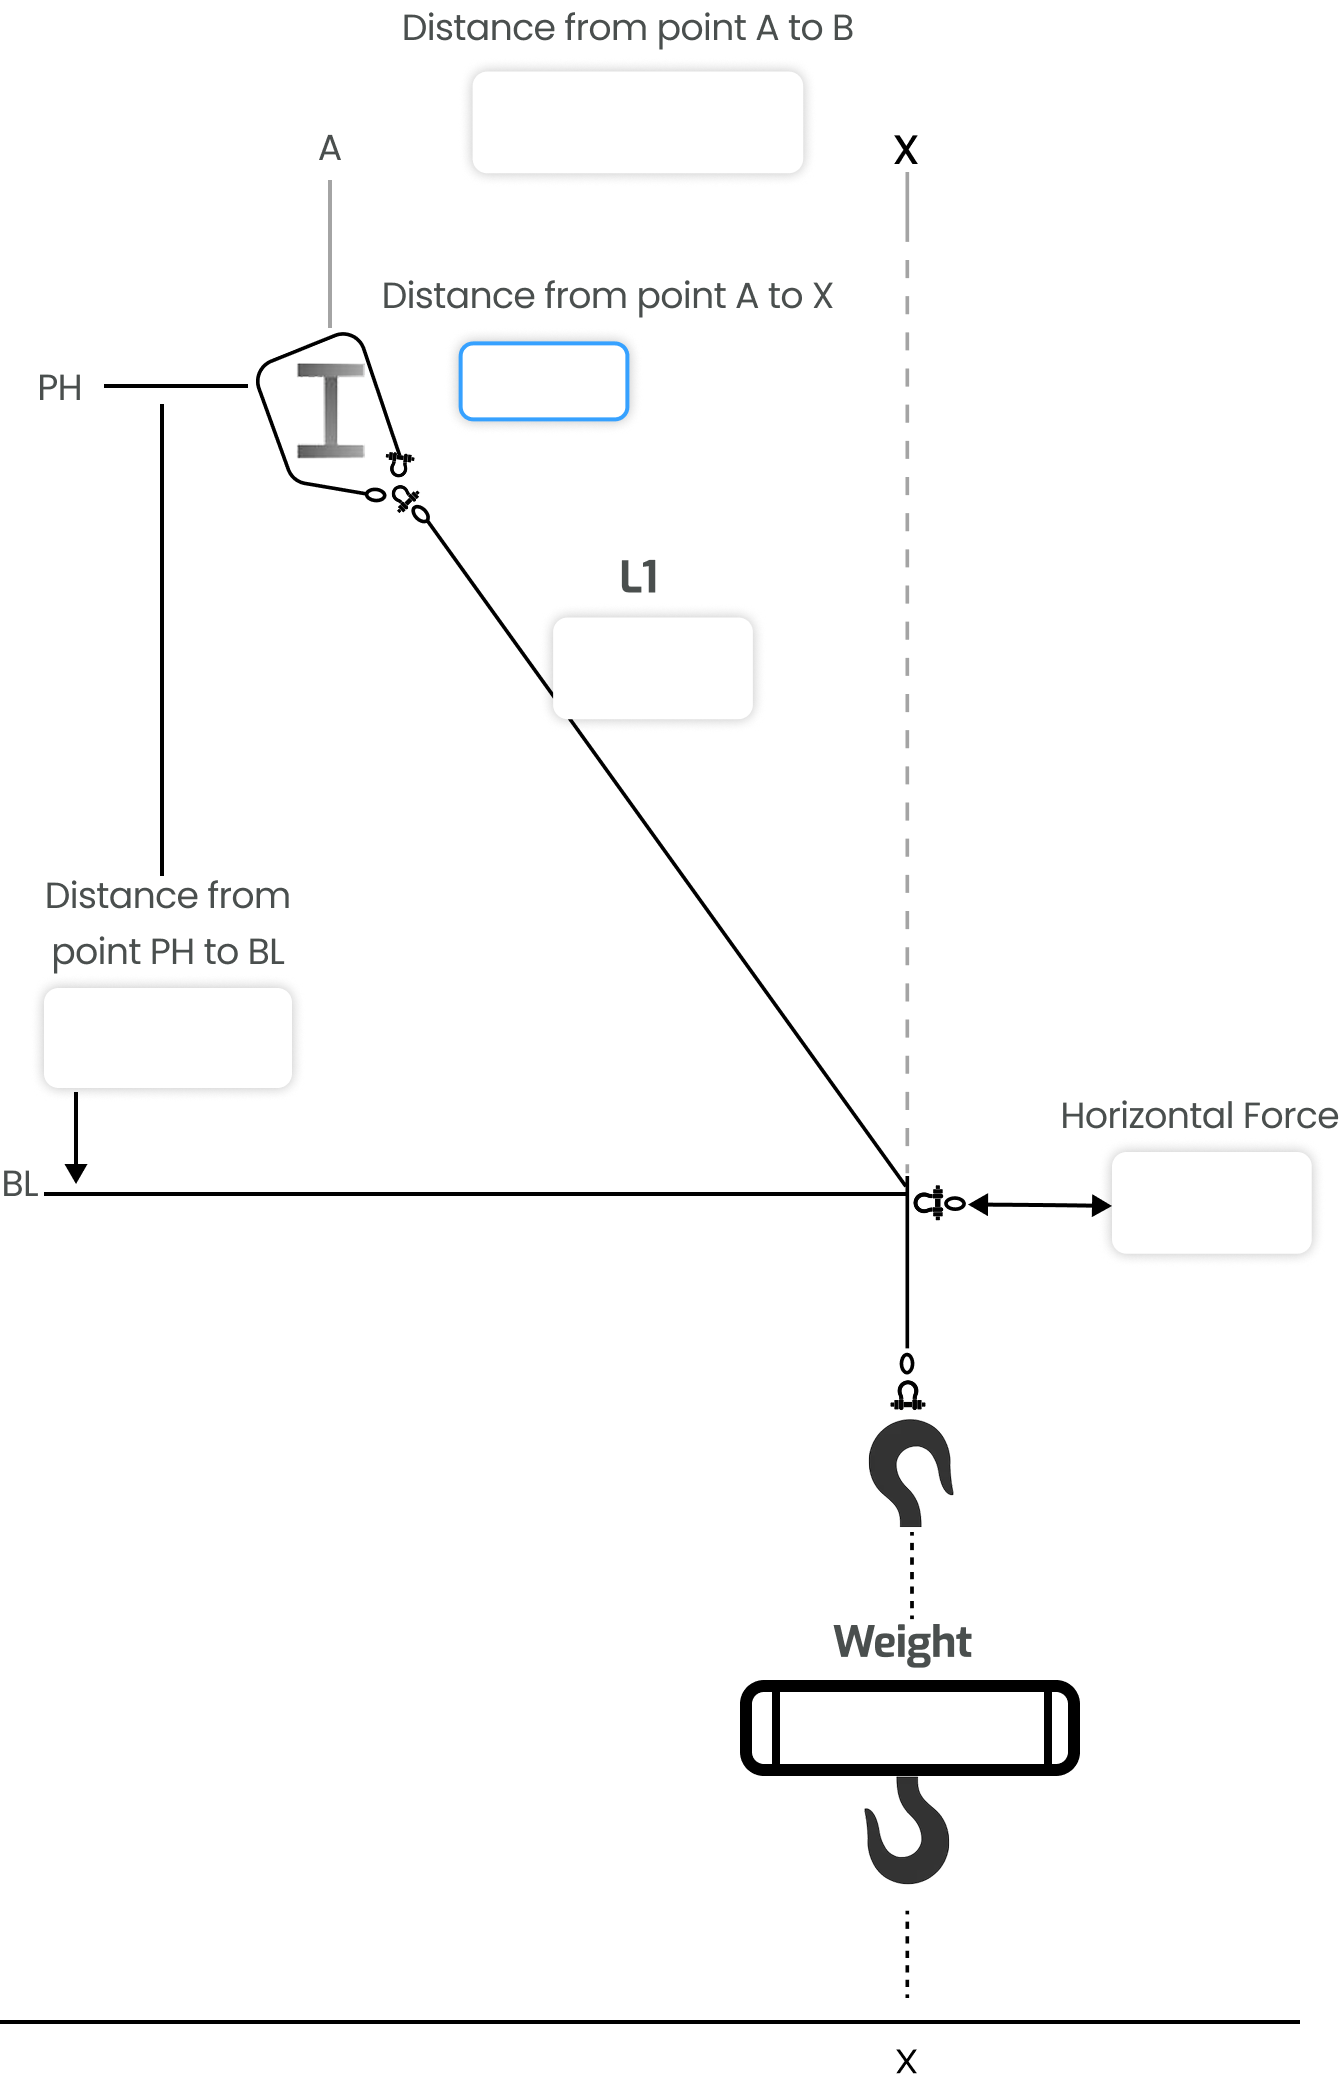
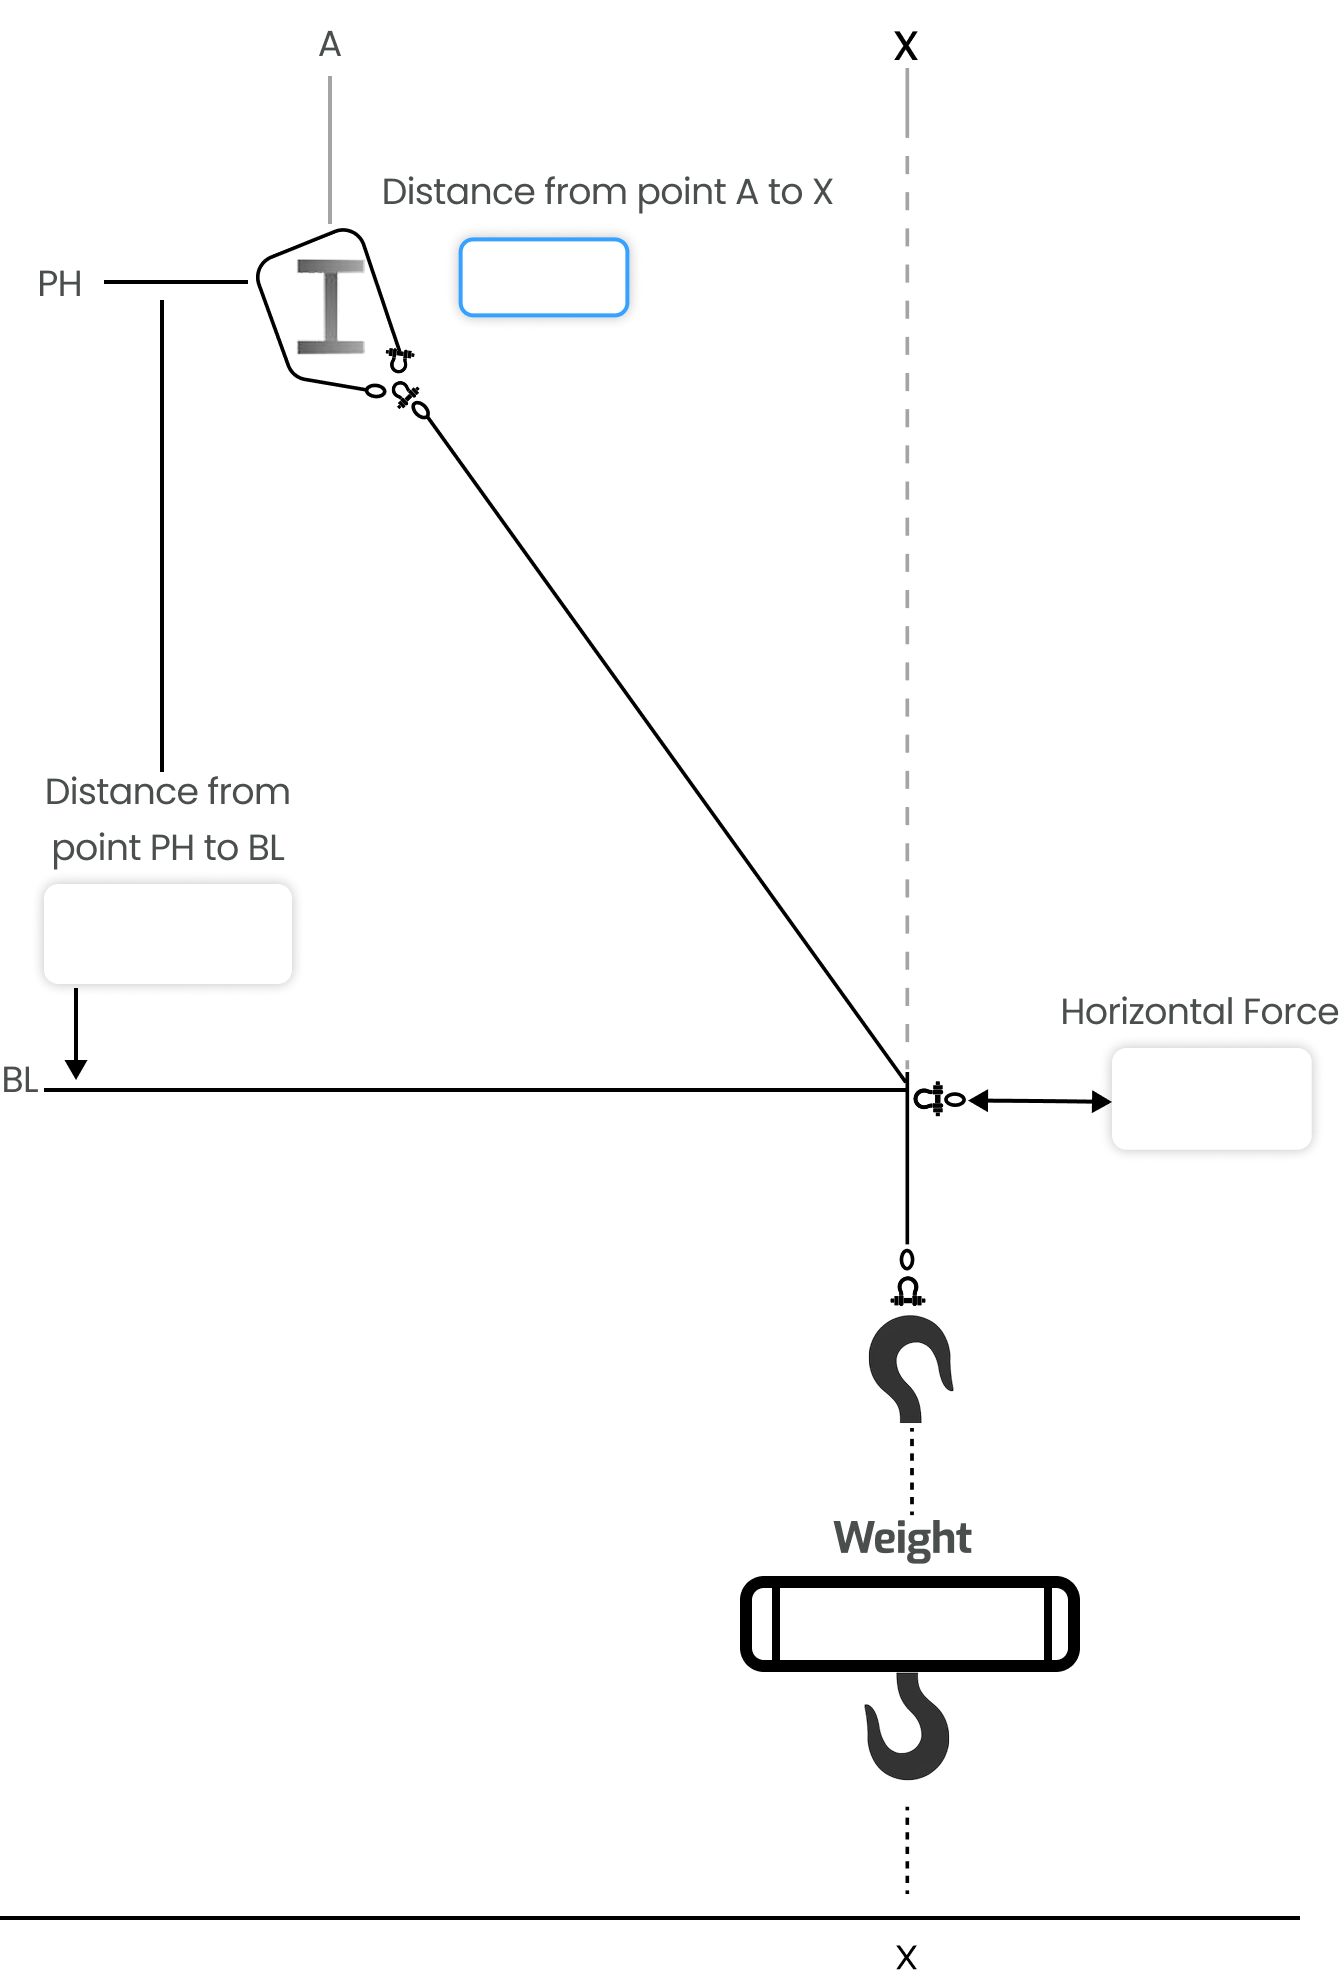
WIP CantivleverUDL

diff --git a/lib/features/home_screen/breasting_line/breasting_line.dart b/lib/features/home_screen/breasting_line/breasting_line.dart
@@ -1,6 +1,7 @@
 import 'package:clay_rigging_bridle/utils/app_assets.dart';
 import 'package:clay_rigging_bridle/utils/app_text_styles.dart';
 import 'package:clay_rigging_bridle/widgets/arrow_back_button.dart';
+import 'package:clay_rigging_bridle/widgets/primary_button.dart';
 import 'package:clay_rigging_bridle/widgets/primary_text_field.dart';
 import 'package:flutter/material.dart';
 
@@ -12,21 +13,77 @@ class BreastingLine extends StatefulWidget {
 }
 
 class _BreastingLineState extends State<BreastingLine> {
-  final aToBController = TextEditingController();
+  // ── Controllers ──
   final aToXController = TextEditingController();
   final phToBlController = TextEditingController();
-  final l1Controller = TextEditingController();
-  final horizontalForceController = TextEditingController();
   final weightController = TextEditingController();
+  final horizontalForceController = TextEditingController();
+
+  // ── UI state ──
+  bool isCalculateEnabled = false;
+
+  @override
+  void initState() {
+    super.initState();
+    // Re-evaluate Calculate whenever any input changes
+    for (final c in [aToXController, phToBlController, weightController]) {
+      c.addListener(_updateCalculateState);
+    }
+  }
+
+  @override
+  void dispose() {
+    for (final c in [
+      aToXController,
+      phToBlController,
+      weightController,
+      horizontalForceController,
+    ]) {
+      c.dispose();
+    }
+    super.dispose();
+  }
+
+  /// Enable the button only when all three inputs are non-empty.
+  void _updateCalculateState() {
+    final ready =
+        aToXController.text.isNotEmpty &&
+        phToBlController.text.isNotEmpty &&
+        weightController.text.isNotEmpty;
+    setState(() => isCalculateEnabled = ready);
+  }
+
+  void _onCalculate() {
+    final x = double.tryParse(aToXController.text) ?? 0.0; // A→X
+    final p = double.tryParse(phToBlController.text) ?? 1.0; // PH→BL
+    final W = double.tryParse(weightController.text) ?? 0.0; // weight
+
+    // Correct formula:
+    final FH = (p > 0) ? W * x / p : 0.0;
+
+    horizontalForceController.text = FH.toStringAsFixed(1);
+  }
+
+  /// Clear everything and disable the button again.
+  void _onReset() {
+    FocusScope.of(context).unfocus();
+    for (final c in [
+      aToXController,
+      phToBlController,
+      weightController,
+      horizontalForceController,
+    ]) {
+      c.clear();
+    }
+    setState(() => isCalculateEnabled = false);
+  }
 
   @override
   Widget build(BuildContext context) {
     return GestureDetector(
-      onTap: () {
-        FocusScope.of(context).unfocus(); // Dismiss keyboard on tap
-      },
+      onTap: () => FocusScope.of(context).unfocus(),
       child: Scaffold(
-        resizeToAvoidBottomInset: false, // Prevent image from shifting
+        resizeToAvoidBottomInset: false,
         backgroundColor: Colors.white,
         body: Column(
           children: [
@@ -37,10 +94,7 @@ class _BreastingLineState extends State<BreastingLine> {
                   children: [
                     ArrowBackButton(),
                     Spacer(),
-                    Text(
-                      "Breasting Line Calculator",
-                      style: AppTextStyle.titleSmall,
-                    ),
+                    Text("Breasting Line", style: AppTextStyle.titleSmall),
                     Spacer(),
                     ArrowBackButton(color: Colors.transparent),
                   ],
@@ -49,73 +103,39 @@ class _BreastingLineState extends State<BreastingLine> {
             ),
             const SizedBox(height: 10),
 
-            /// Fixed-size layout
             Center(
               child: Container(
-                width: 360, // Fixed width
-                height: 600, // Fixed height for consistent layout
+                width: 360,
+                height: 600,
                 child: Stack(
                   children: [
                     Positioned.fill(
                       child: Image.asset(AppAssets.breastingLine),
                     ),
 
-                    /// Exact manual placements
-                    Positioned(
-                      top: 34,
-                      left: 127,
-                      child: PrimaryTextField(
-                        width: 80,
-                        height: 20,
-                        controller: aToBController,
-                        hintText: 'A to B',
-                        maxLength: 2,
-                      ),
-                    ),
-
+                    // A → X
                     Positioned(
                       top: 98,
                       left: 125,
                       child: PrimaryTextField(
-                        width: 46,
+                        width: 41,
                         height: 20,
                         controller: aToXController,
-                        hintText: 'A to X',
-                        maxLength: 2,
                       ),
                     ),
 
-                    ///
+                    // PH → BL
                     Positioned(
-                      top: 179,
-                      left: 150,
-                      child: PrimaryTextField(
-                        width: 50,
-                        height: 20,
-                        controller: l1Controller,
-                        hintText: 'L1',
-                        maxLength: 2,
-                      ),
-                    ),
-
-                    ///
-                    ///
-                    ///
-                    Positioned(
-                      top: 278,
+                      top: 275,
                       left: 16,
                       child: PrimaryTextField(
                         width: 60,
                         height: 20,
                         controller: phToBlController,
-                        hintText: 'PH to BL',
-                        maxLength: 2,
                       ),
                     ),
 
-                    ///
-                    ///
-                    ///
+                    // Horizontal force (output)
                     Positioned(
                       top: 322,
                       left: 299,
@@ -123,10 +143,12 @@ class _BreastingLineState extends State<BreastingLine> {
                         width: 50,
                         height: 20,
                         controller: horizontalForceController,
-                        hintText: 'Horizontal Force',
-                        maxLength: 2,
+
+                        enable: false,
                       ),
                     ),
+
+                    // W (weight)
                     Positioned(
                       top: 461,
                       left: 209,
@@ -134,13 +156,25 @@ class _BreastingLineState extends State<BreastingLine> {
                         width: 70,
                         height: 20,
                         controller: weightController,
-                        hintText: 'Weight',
-                        maxLength: 2,
                       ),
                     ),
                   ],
                 ),
               ),
+            ),
+
+            const SizedBox(height: 10),
+            PrimaryButton(
+              title: "Calculate",
+              enabled: isCalculateEnabled,
+              onPressed: isCalculateEnabled ? _onCalculate : () {},
+            ),
+
+            const SizedBox(height: 10),
+            PrimaryButton(
+              title: "Reset",
+              backgroundColor: Colors.red,
+              onPressed: _onReset,
             ),
           ],
         ),

diff --git a/lib/features/home_screen/information/information.dart b/lib/features/home_screen/information/information.dart
@@ -1,5 +1,6 @@
 import 'package:clay_rigging_bridle/utils/app_text_styles.dart';
 import 'package:clay_rigging_bridle/widgets/arrow_back_button.dart';
+import 'package:clay_rigging_bridle/widgets/primary_button.dart';
 import 'package:flutter/material.dart';
 
 class InformationScreen extends StatelessWidget {
@@ -67,26 +68,11 @@ class InformationScreen extends StatelessWidget {
           ),
           Padding(
             padding: const EdgeInsets.all(16.0),
-            child: SizedBox(
-              width: double.infinity,
-              height: 50,
-              child: ElevatedButton(
-                onPressed: () => Navigator.pop(context),
-                style: ElevatedButton.styleFrom(
-                  backgroundColor: Colors.blue,
-                  shape: RoundedRectangleBorder(
-                    borderRadius: BorderRadius.circular(12),
-                  ),
-                ),
-                child: const Text(
-                  'Close',
-                  style: TextStyle(
-                    color: Colors.white,
-                    fontSize: 18,
-                    fontWeight: FontWeight.bold,
-                  ),
-                ),
-              ),
+            child: PrimaryButton(
+              title: "Close",
+              onPressed: () {
+                Navigator.pop(context);
+              },
             ),
           ),
         ],

diff --git a/lib/widgets/primary_text_field.dart b/lib/widgets/primary_text_field.dart
@@ -108,7 +108,7 @@ class PrimaryTextField extends StatelessWidget {
             ),
 
           Container(
-            color: Colors.red.withValues(alpha: 0.3),
+            // color: Colors.red.withValues(alpha: 0.3),
             width: width,
             height: height,
             child: AutoSizeTextField(
